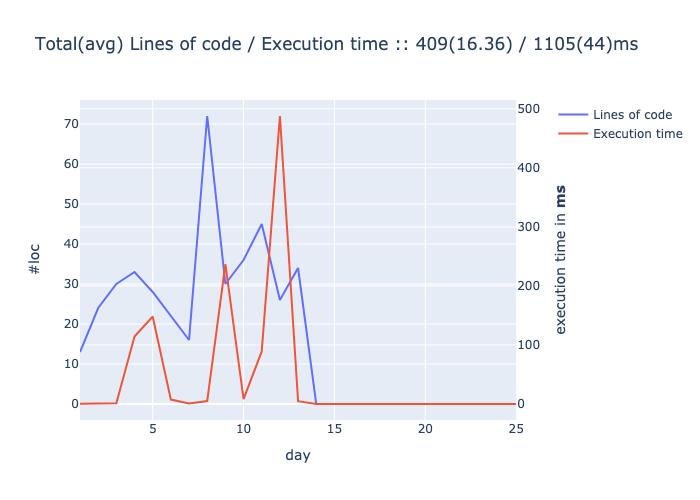
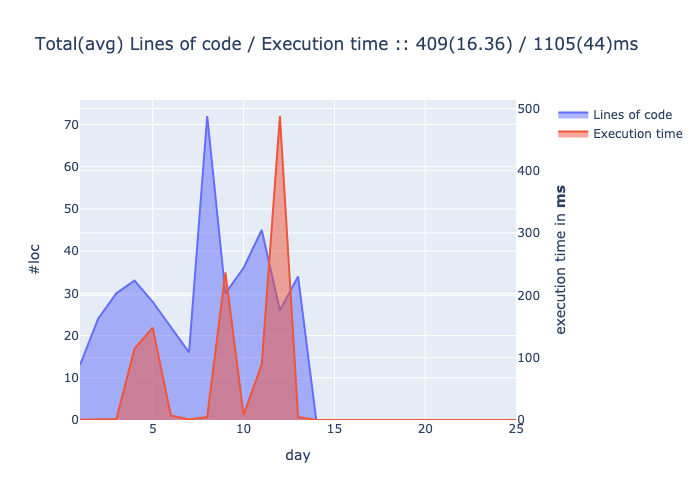
chore: beautify stats

diff --git a/aoc/stats.py b/aoc/stats.py
@@ -47,12 +47,12 @@ def get_figure(locs=None, times=None):
     fig = make_subplots(specs=[[{"secondary_y": True}]])
 
     fig.add_trace(
-        go.Scatter(x=DAYS, y=locs, name="Lines of code"),
+        go.Scatter(x=DAYS, y=locs, name="Lines of code", fill="tozeroy"),
         secondary_y=False
     )
 
     fig.add_trace(
-        go.Scatter(x=DAYS, y=times, name="Execution time"),
+        go.Scatter(x=DAYS, y=times, name="Execution time", fill="tozeroy"),
         secondary_y=True,
     )
 
